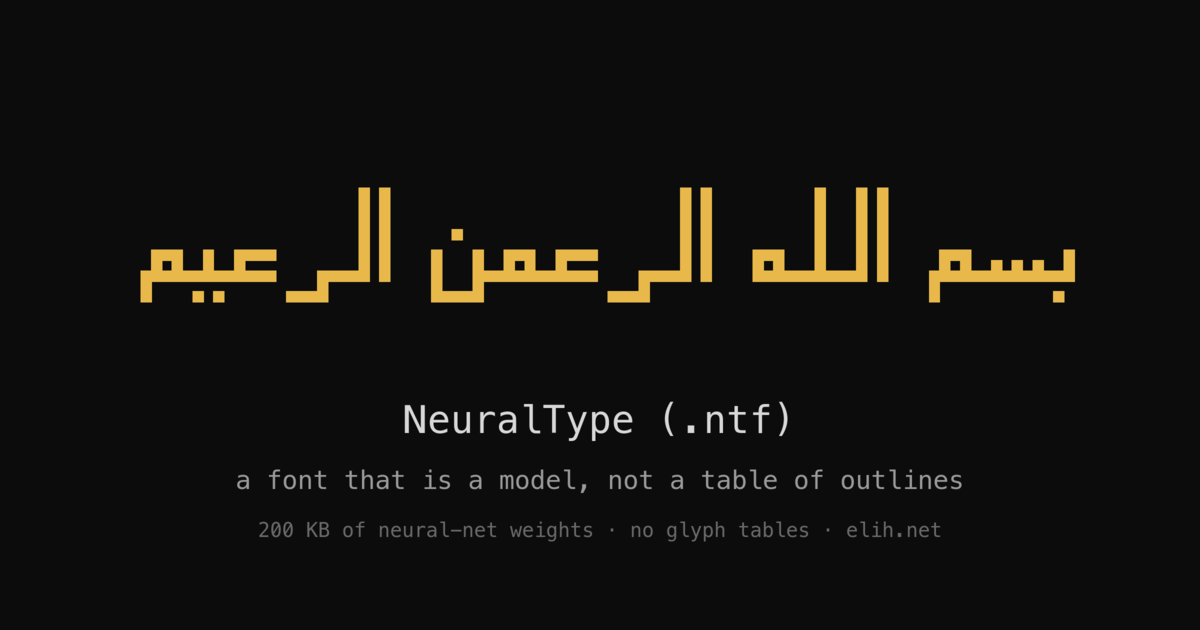
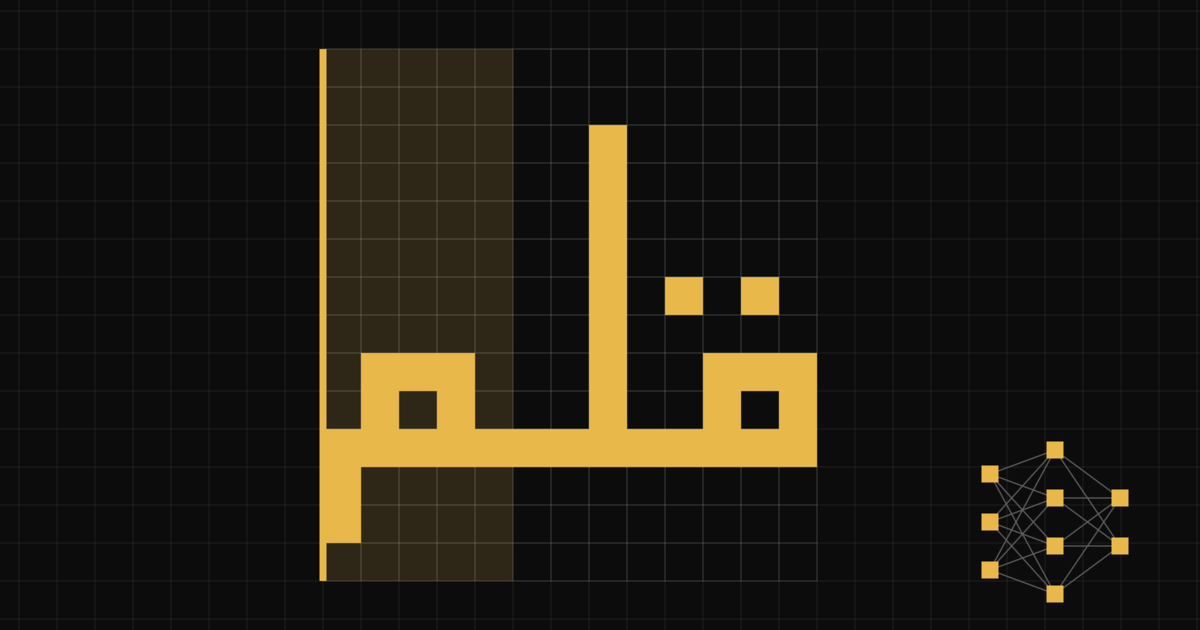
NeuralType demo: qalam default word + designbot OG image

Changed region(s): [[0.0925, 0.0603, 0.9558, 0.9651], [0.7708, 0.3921, 0.8942, 0.4825], [0.7092, 0.8143, 0.7708, 0.8444]]

diff --git a/src/components/NeuralTypeDemo.tsx b/src/components/NeuralTypeDemo.tsx
@@ -90,6 +90,7 @@ function caretPositions(line: Line, text: string): number[] {
 const SAMPLES = [
   'بسم الله الرحمن الرحيم',
   'الخط الكوفي',
+  'قلم',
   'نستعليق',
   'محمد',
   'سلام',
@@ -115,7 +116,8 @@ function ensureFont(fontUrl: string): Promise<NtfFont> {
 type Props = { text?: string; font?: string }
 
 export default function NeuralTypeDemo({
-  text: initialText = SAMPLES[0],
+  // قلم (qalam, "pen") by default: small enough to read the grid details.
+  text: initialText = 'قلم',
   font: fontUrl = '/demos/neuraltype/kufic.ntf',
 }: Props) {
   const canvasRef = useRef<HTMLCanvasElement>(null)
